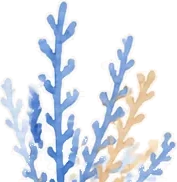
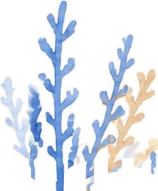
Re-extract every sea element whole and seat it on the waterline
The cutouts were segmented with a flat crop line, which sliced the
turtles' flippers, the starfish points and the coral fronds; the
elements were then placed below the surf line, so the waves covered
what remained. Every piece is now segmented with a per-column cut taken
at the actual waterline (detected by the periwinkle/foam hue), so each
shape ends where the artist drew it, keeping its white sticker outline.

Placement follows the source band as well: corals, turtles and starfish
rest on the sand line instead of sinking behind the surf, and corals and
turtles are scaled back to the proportions they have in the original
artwork.

Claude-Session: https://claude.ai/code/session_01FHjbgYbvwyauAhAEVwTY6z

diff --git a/docs/index.html b/docs/index.html
@@ -67,7 +67,7 @@
   </div>
 </section>
 
-<div class="franja franja--crema" aria-hidden="true"><div class="franja__escena"><img class="mar mar--coral" src="assets/img/mar/coral-a.webp" alt="" style="left:-1%;--w:150;--b:29%;--dur:7.6s;--del:-0s" loading="lazy"><img class="mar mar--tortuga" src="assets/img/mar/tortuga-der.webp" alt="" style="left:10%;--w:150;--b:35%;--dur:7.0s;--del:-1.4s" loading="lazy"><span class="mar mar--burbujas" style="left:19%;--w:0.55;--dur:10s;--del:-2s"><svg viewBox="0 0 40 90"><circle cx="14" cy="76" r="8"/><circle cx="27" cy="50" r="5.5"/><circle cx="16" cy="24" r="4"/><circle class="brillo" cx="11" cy="73" r="2.4"/></svg></span><img class="mar mar--pez mar--extra" src="assets/img/mar/pez-der.webp" alt="" style="left:24%;--w:74;--b:46%;--dur:15s;--del:-0s" loading="lazy"><img class="mar mar--coral" src="assets/img/mar/coral-b.webp" alt="" style="left:35%;--w:120;--b:29%;--dur:8.8s;--del:-2.2s" loading="lazy"><img class="mar mar--estrella" src="assets/img/mar/estrella-naranja.webp" alt="" style="left:45%;--w:104;--b:34%;--dur:9.4s;--del:-0.6s" loading="lazy"><img class="mar mar--estrella mar--extra" src="assets/img/mar/estrella-teal.webp" alt="" style="left:53%;--w:64;--b:33%;--dur:11.5s;--del:-2.8s" loading="lazy"><span class="mar mar--burbujas" style="left:60%;--w:0.45;--dur:13s;--del:-5s"><svg viewBox="0 0 40 90"><circle cx="14" cy="76" r="8"/><circle cx="27" cy="50" r="5.5"/><circle cx="16" cy="24" r="4"/><circle class="brillo" cx="11" cy="73" r="2.4"/></svg></span><img class="mar mar--coral mar--extra" src="assets/img/mar/coral-c.webp" alt="" style="left:61%;--w:150;--b:29%;--dur:6.8s;--del:-1.1s" loading="lazy"><img class="mar mar--ballena" src="assets/img/mar/ballena-der.webp" alt="" style="left:73%;--w:252;--b:35%;--dur:11s;--del:-0s" loading="lazy"><img class="mar mar--coral" src="assets/img/mar/coral-d.webp" alt="" style="left:92%;--w:120;--b:29%;--dur:9.6s;--del:-3.1s" loading="lazy"><span class="mar mar--burbujas" style="left:70%;--w:.5;--dur:12.5s;--del:-3.5s"><svg viewBox="0 0 40 90"><circle cx="14" cy="76" r="8"/><circle cx="27" cy="50" r="5.5"/><circle cx="16" cy="24" r="4"/><circle class="brillo" cx="11" cy="73" r="2.4"/></svg></span><svg class="franja__olas" viewBox="0 0 2160 200" preserveAspectRatio="none" aria-hidden="true"><path class="ola ola--1" d="M -160 43.0 Q -40 49.6 20.0 53.2 Q 80 56.8 140.0 59.8 Q 200 62.8 260.0 64.6 Q 320 66.4 380.0 66.6 Q 440 66.7 500.0 65.2 Q 560 63.6 620.0 60.7 Q 680 57.9 740.0 54.3 Q 800 50.8 860.0 47.4 Q 920 44.0 980.0 41.5 Q 1040 39.0 1100.0 38.0 Q 1160 37.0 1220.0 37.7 Q 1280 38.4 1340.0 40.7 Q 1400 43.0 1460.0 46.3 Q 1520 49.6 1580.0 53.2 Q 1640 56.8 1700.0 59.8 Q 1760 62.8 1820.0 64.6 Q 1880 66.4 1940.0 66.6 Q 2000 66.7 2060.0 65.2 Q 2120 63.6 2180.0 60.7 T 2240 57.9 L 2320 200 L -160 200 Z" fill="#F6FAFF"/><path class="ola ola--2" d="M -160 85.2 Q -40 90.2 20.0 91.7 Q 80 93.3 140.0 93.6 Q 200 93.9 260.0 93.0 Q 320 92.1 380.0 90.0 Q 440 87.9 500.0 85.1 Q 560 82.3 620.0 79.1 Q 680 75.9 740.0 72.9 Q 800 69.9 860.0 67.5 Q 920 65.1 980.0 63.8 Q 1040 62.4 1100.0 62.3 Q 1160 62.2 1220.0 63.4 Q 1280 64.5 1340.0 66.7 Q 1400 68.9 1460.0 71.8 Q 1520 74.8 1580.0 78.0 Q 1640 81.1 1700.0 84.1 Q 1760 87.0 1820.0 89.2 Q 1880 91.5 1940.0 92.6 Q 2000 93.8 2060.0 93.7 Q 2120 93.6 2180.0 92.2 T 2240 90.9 L 2320 200 L -160 200 Z" fill="#DDE6F8"/><path class="ola ola--3" d="M -160 120.8 Q -40 120.2 20.0 118.2 Q 80 116.3 140.0 113.1 Q 200 110.0 260.0 106.6 Q 320 103.2 380.0 100.5 Q 440 97.8 500.0 96.4 Q 560 95.1 620.0 95.6 Q 680 96.0 740.0 98.1 Q 800 100.2 860.0 103.4 Q 920 106.5 980.0 109.9 Q 1040 113.3 1100.0 115.9 Q 1160 118.6 1220.0 119.8 Q 1280 120.9 1340.0 120.4 Q 1400 119.8 1460.0 117.5 Q 1520 115.3 1580.0 112.1 Q 1640 108.9 1700.0 105.5 Q 1760 102.2 1820.0 99.7 Q 1880 97.1 1940.0 96.1 Q 2000 95.0 2060.0 95.8 Q 2120 96.5 2180.0 98.8 T 2240 101.2 L 2320 200 L -160 200 Z" fill="#C3CFEE"/><path class="ola ola--4" d="M -160 145.0 Q -40 149.8 20.0 151.8 Q 80 153.9 140.0 155.1 Q 200 156.4 260.0 156.7 Q 320 156.9 380.0 156.1 Q 440 155.3 500.0 153.6 Q 560 152.0 620.0 149.7 Q 680 147.4 740.0 145.0 Q 800 142.6 860.0 140.5 Q 920 138.4 980.0 137.1 Q 1040 135.7 1100.0 135.4 Q 1160 135.0 1220.0 135.7 Q 1280 136.4 1340.0 138.1 Q 1400 139.7 1460.0 141.9 Q 1520 144.2 1580.0 146.6 Q 1640 149.0 1700.0 151.1 Q 1760 153.3 1820.0 154.7 Q 1880 156.1 1940.0 156.5 Q 2000 157.0 2060.0 156.4 Q 2120 155.7 2180.0 154.2 T 2240 152.6 L 2320 200 L -160 200 Z" fill="#F7FAFF"/><path class="ola ola--5" d="M -160 182.5 Q -40 183.0 20.0 182.7 Q 80 182.4 140.0 181.6 Q 200 180.7 260.0 179.5 Q 320 178.2 380.0 176.7 Q 440 175.1 500.0 173.5 Q 560 171.9 620.0 170.4 Q 680 169.0 740.0 167.8 Q 800 166.7 860.0 166.0 Q 920 165.3 980.0 165.2 Q 1040 165.0 1100.0 165.5 Q 1160 165.9 1220.0 166.9 Q 1280 167.8 1340.0 169.2 Q 1400 170.5 1460.0 172.1 Q 1520 173.7 1580.0 175.3 Q 1640 176.9 1700.0 178.3 Q 1760 179.7 1820.0 180.7 Q 1880 181.8 1940.0 182.3 Q 2000 182.9 2060.0 182.9 Q 2120 182.8 2180.0 182.3 T 2240 181.7 L 2320 200 L -160 200 Z" fill="#EEF4FA"/></svg></div></div>
+<div class="franja franja--crema" aria-hidden="true"><div class="franja__escena"><img class="mar mar--coral" src="assets/img/mar/coral-a.webp" alt="" style="left:-1%;--w:93;--b:33%;--dur:7.6s;--del:-0s" loading="lazy"><img class="mar mar--tortuga" src="assets/img/mar/tortuga-der.webp" alt="" style="left:10%;--w:126;--b:34%;--dur:7.0s;--del:-1.4s" loading="lazy"><span class="mar mar--burbujas" style="left:19%;--w:0.55;--dur:10s;--del:-2s"><svg viewBox="0 0 40 90"><circle cx="14" cy="76" r="8"/><circle cx="27" cy="50" r="5.5"/><circle cx="16" cy="24" r="4"/><circle class="brillo" cx="11" cy="73" r="2.4"/></svg></span><img class="mar mar--pez mar--extra" src="assets/img/mar/pez-der.webp" alt="" style="left:24%;--w:74;--b:46%;--dur:15s;--del:-0s" loading="lazy"><img class="mar mar--coral" src="assets/img/mar/coral-b.webp" alt="" style="left:35%;--w:74;--b:33%;--dur:8.8s;--del:-2.2s" loading="lazy"><img class="mar mar--estrella" src="assets/img/mar/estrella-naranja.webp" alt="" style="left:45%;--w:104;--b:34%;--dur:9.4s;--del:-0.6s" loading="lazy"><img class="mar mar--estrella mar--extra" src="assets/img/mar/estrella-teal.webp" alt="" style="left:53%;--w:64;--b:34%;--dur:11.5s;--del:-2.8s" loading="lazy"><span class="mar mar--burbujas" style="left:60%;--w:0.45;--dur:13s;--del:-5s"><svg viewBox="0 0 40 90"><circle cx="14" cy="76" r="8"/><circle cx="27" cy="50" r="5.5"/><circle cx="16" cy="24" r="4"/><circle class="brillo" cx="11" cy="73" r="2.4"/></svg></span><img class="mar mar--coral mar--extra" src="assets/img/mar/coral-c.webp" alt="" style="left:61%;--w:93;--b:33%;--dur:6.8s;--del:-1.1s" loading="lazy"><img class="mar mar--ballena" src="assets/img/mar/ballena-der.webp" alt="" style="left:73%;--w:252;--b:36%;--dur:11s;--del:-0s" loading="lazy"><img class="mar mar--coral" src="assets/img/mar/coral-d.webp" alt="" style="left:92%;--w:74;--b:33%;--dur:9.6s;--del:-3.1s" loading="lazy"><span class="mar mar--burbujas" style="left:70%;--w:.5;--dur:12.5s;--del:-3.5s"><svg viewBox="0 0 40 90"><circle cx="14" cy="76" r="8"/><circle cx="27" cy="50" r="5.5"/><circle cx="16" cy="24" r="4"/><circle class="brillo" cx="11" cy="73" r="2.4"/></svg></span><svg class="franja__olas" viewBox="0 0 2160 200" preserveAspectRatio="none" aria-hidden="true"><path class="ola ola--1" d="M -160 43.0 Q -40 49.6 20.0 53.2 Q 80 56.8 140.0 59.8 Q 200 62.8 260.0 64.6 Q 320 66.4 380.0 66.6 Q 440 66.7 500.0 65.2 Q 560 63.6 620.0 60.7 Q 680 57.9 740.0 54.3 Q 800 50.8 860.0 47.4 Q 920 44.0 980.0 41.5 Q 1040 39.0 1100.0 38.0 Q 1160 37.0 1220.0 37.7 Q 1280 38.4 1340.0 40.7 Q 1400 43.0 1460.0 46.3 Q 1520 49.6 1580.0 53.2 Q 1640 56.8 1700.0 59.8 Q 1760 62.8 1820.0 64.6 Q 1880 66.4 1940.0 66.6 Q 2000 66.7 2060.0 65.2 Q 2120 63.6 2180.0 60.7 T 2240 57.9 L 2320 200 L -160 200 Z" fill="#F6FAFF"/><path class="ola ola--2" d="M -160 85.2 Q -40 90.2 20.0 91.7 Q 80 93.3 140.0 93.6 Q 200 93.9 260.0 93.0 Q 320 92.1 380.0 90.0 Q 440 87.9 500.0 85.1 Q 560 82.3 620.0 79.1 Q 680 75.9 740.0 72.9 Q 800 69.9 860.0 67.5 Q 920 65.1 980.0 63.8 Q 1040 62.4 1100.0 62.3 Q 1160 62.2 1220.0 63.4 Q 1280 64.5 1340.0 66.7 Q 1400 68.9 1460.0 71.8 Q 1520 74.8 1580.0 78.0 Q 1640 81.1 1700.0 84.1 Q 1760 87.0 1820.0 89.2 Q 1880 91.5 1940.0 92.6 Q 2000 93.8 2060.0 93.7 Q 2120 93.6 2180.0 92.2 T 2240 90.9 L 2320 200 L -160 200 Z" fill="#DDE6F8"/><path class="ola ola--3" d="M -160 120.8 Q -40 120.2 20.0 118.2 Q 80 116.3 140.0 113.1 Q 200 110.0 260.0 106.6 Q 320 103.2 380.0 100.5 Q 440 97.8 500.0 96.4 Q 560 95.1 620.0 95.6 Q 680 96.0 740.0 98.1 Q 800 100.2 860.0 103.4 Q 920 106.5 980.0 109.9 Q 1040 113.3 1100.0 115.9 Q 1160 118.6 1220.0 119.8 Q 1280 120.9 1340.0 120.4 Q 1400 119.8 1460.0 117.5 Q 1520 115.3 1580.0 112.1 Q 1640 108.9 1700.0 105.5 Q 1760 102.2 1820.0 99.7 Q 1880 97.1 1940.0 96.1 Q 2000 95.0 2060.0 95.8 Q 2120 96.5 2180.0 98.8 T 2240 101.2 L 2320 200 L -160 200 Z" fill="#C3CFEE"/><path class="ola ola--4" d="M -160 145.0 Q -40 149.8 20.0 151.8 Q 80 153.9 140.0 155.1 Q 200 156.4 260.0 156.7 Q 320 156.9 380.0 156.1 Q 440 155.3 500.0 153.6 Q 560 152.0 620.0 149.7 Q 680 147.4 740.0 145.0 Q 800 142.6 860.0 140.5 Q 920 138.4 980.0 137.1 Q 1040 135.7 1100.0 135.4 Q 1160 135.0 1220.0 135.7 Q 1280 136.4 1340.0 138.1 Q 1400 139.7 1460.0 141.9 Q 1520 144.2 1580.0 146.6 Q 1640 149.0 1700.0 151.1 Q 1760 153.3 1820.0 154.7 Q 1880 156.1 1940.0 156.5 Q 2000 157.0 2060.0 156.4 Q 2120 155.7 2180.0 154.2 T 2240 152.6 L 2320 200 L -160 200 Z" fill="#F7FAFF"/><path class="ola ola--5" d="M -160 182.5 Q -40 183.0 20.0 182.7 Q 80 182.4 140.0 181.6 Q 200 180.7 260.0 179.5 Q 320 178.2 380.0 176.7 Q 440 175.1 500.0 173.5 Q 560 171.9 620.0 170.4 Q 680 169.0 740.0 167.8 Q 800 166.7 860.0 166.0 Q 920 165.3 980.0 165.2 Q 1040 165.0 1100.0 165.5 Q 1160 165.9 1220.0 166.9 Q 1280 167.8 1340.0 169.2 Q 1400 170.5 1460.0 172.1 Q 1520 173.7 1580.0 175.3 Q 1640 176.9 1700.0 178.3 Q 1760 179.7 1820.0 180.7 Q 1880 181.8 1940.0 182.3 Q 2000 182.9 2060.0 182.9 Q 2120 182.8 2180.0 182.3 T 2240 181.7 L 2320 200 L -160 200 Z" fill="#EEF4FA"/></svg></div></div>
 
 <!-- ===== Servicios ===== -->
 <section id="servicios" class="seccion seccion--agua" style="padding-top:20px">
@@ -136,7 +136,7 @@
   </div>
 </section>
 
-<div class="franja franja--agua" aria-hidden="true"><div class="franja__escena"><img class="mar mar--coral" src="assets/img/mar/coral-c.webp" alt="" style="left:-1%;--w:140;--b:29%;--dur:8.2s;--del:-1.8s" loading="lazy"><img class="mar mar--ballena" src="assets/img/mar/ballena-izq.webp" alt="" style="left:6%;--w:252;--b:35%;--dur:12s;--del:-1.5s" loading="lazy"><span class="mar mar--burbujas" style="left:23%;--w:0.5;--dur:11s;--del:-1s"><svg viewBox="0 0 40 90"><circle cx="14" cy="76" r="8"/><circle cx="27" cy="50" r="5.5"/><circle cx="16" cy="24" r="4"/><circle class="brillo" cx="11" cy="73" r="2.4"/></svg></span><img class="mar mar--coral mar--extra" src="assets/img/mar/coral-a.webp" alt="" style="left:26%;--w:130;--b:29%;--dur:7.2s;--del:-0s" loading="lazy"><img class="mar mar--estrella" src="assets/img/mar/estrella-teal.webp" alt="" style="left:36%;--w:60;--b:33%;--dur:10.6s;--del:-1.9s" loading="lazy"><img class="mar mar--estrella" src="assets/img/mar/estrella-naranja.webp" alt="" style="left:42%;--w:100;--b:34%;--dur:8.8s;--del:-3.2s" loading="lazy"><img class="mar mar--coral" src="assets/img/mar/coral-b.webp" alt="" style="left:53%;--w:140;--b:29%;--dur:9.1s;--del:-0.7s" loading="lazy"><img class="mar mar--pez mar--extra" src="assets/img/mar/pez-izq.webp" alt="" style="left:64%;--w:70;--b:46%;--dur:16s;--del:-2s" loading="lazy"><span class="mar mar--burbujas" style="left:70%;--w:0.5;--dur:12s;--del:-4s"><svg viewBox="0 0 40 90"><circle cx="14" cy="76" r="8"/><circle cx="27" cy="50" r="5.5"/><circle cx="16" cy="24" r="4"/><circle class="brillo" cx="11" cy="73" r="2.4"/></svg></span><img class="mar mar--tortuga" src="assets/img/mar/tortuga-izq.webp" alt="" style="left:74%;--w:150;--b:35%;--dur:7.4s;--del:-2.6s" loading="lazy"><img class="mar mar--coral" src="assets/img/mar/coral-d.webp" alt="" style="left:90%;--w:130;--b:29%;--dur:8.4s;--del:-1.2s" loading="lazy"><span class="mar mar--burbujas" style="left:19%;--w:.5;--dur:11s;--del:-2s"><svg viewBox="0 0 40 90"><circle cx="14" cy="76" r="8"/><circle cx="27" cy="50" r="5.5"/><circle cx="16" cy="24" r="4"/><circle class="brillo" cx="11" cy="73" r="2.4"/></svg></span><svg class="franja__olas" viewBox="0 0 2160 200" preserveAspectRatio="none" aria-hidden="true"><path class="ola ola--1" d="M -160 61.1 Q -40 65.6 20.0 66.3 Q 80 67.0 140.0 65.9 Q 200 64.9 260.0 62.4 Q 320 59.9 380.0 56.5 Q 440 53.0 500.0 49.5 Q 560 46.0 620.0 43.1 Q 680 40.3 740.0 38.8 Q 800 37.3 860.0 37.5 Q 920 37.6 980.0 39.5 Q 1040 41.3 1100.0 44.4 Q 1160 47.4 1220.0 51.0 Q 1280 54.6 1340.0 57.9 Q 1400 61.1 1460.0 63.4 Q 1520 65.6 1580.0 66.3 Q 1640 67.0 1700.0 65.9 Q 1760 64.9 1820.0 62.4 Q 1880 59.9 1940.0 56.5 Q 2000 53.0 2060.0 49.5 Q 2120 46.0 2180.0 43.1 T 2240 40.3 L 2320 200 L -160 200 Z" fill="#F6FAFF"/><path class="ola ola--2" d="M -160 93.7 Q -40 91.2 20.0 89.0 Q 80 86.7 140.0 83.7 Q 200 80.8 260.0 77.6 Q 320 74.4 380.0 71.5 Q 440 68.6 500.0 66.4 Q 560 64.3 620.0 63.2 Q 680 62.2 740.0 62.3 Q 800 62.5 860.0 64.0 Q 920 65.4 980.0 67.8 Q 1040 70.2 1100.0 73.3 Q 1160 76.3 1220.0 79.5 Q 1280 82.6 1340.0 85.5 Q 1400 88.3 1460.0 90.2 Q 1520 92.2 1580.0 93.1 Q 1640 94.0 1700.0 93.6 Q 1760 93.1 1820.0 91.5 Q 1880 89.9 1940.0 87.4 Q 2000 84.8 2060.0 81.7 Q 2120 78.6 2180.0 75.5 T 2240 72.3 L 2320 200 L -160 200 Z" fill="#DDE6F8"/><path class="ola ola--3" d="M -160 113.6 Q -40 106.9 20.0 103.7 Q 80 100.5 140.0 98.3 Q 200 96.2 260.0 95.6 Q 320 95.1 380.0 96.3 Q 440 97.5 500.0 100.2 Q 560 102.9 620.0 106.3 Q 680 109.6 740.0 112.8 Q 800 115.9 860.0 118.0 Q 920 120.1 980.0 120.5 Q 1040 120.9 1100.0 119.5 Q 1160 118.1 1220.0 115.4 Q 1280 112.6 1340.0 109.2 Q 1400 105.8 1460.0 102.7 Q 1520 99.6 1580.0 97.7 Q 1640 95.7 1700.0 95.5 Q 1760 95.2 1820.0 96.7 Q 1880 98.3 1940.0 101.1 Q 2000 103.9 2060.0 107.4 Q 2120 110.8 2180.0 113.8 T 2240 116.8 L 2320 200 L -160 200 Z" fill="#C3CFEE"/><path class="ola ola--4" d="M -160 156.3 Q -40 157.0 20.0 156.2 Q 80 155.5 140.0 153.9 Q 200 152.2 260.0 150.0 Q 320 147.7 380.0 145.3 Q 440 142.9 500.0 140.8 Q 560 138.7 620.0 137.3 Q 680 135.9 740.0 135.4 Q 800 135.0 860.0 135.6 Q 920 136.3 980.0 137.9 Q 1040 139.4 1100.0 141.6 Q 1160 143.9 1220.0 146.3 Q 1280 148.7 1340.0 150.9 Q 1400 153.0 1460.0 154.5 Q 1520 156.0 1580.0 156.5 Q 1640 157.0 1700.0 156.5 Q 1760 155.9 1820.0 154.4 Q 1880 152.9 1940.0 150.7 Q 2000 148.5 2060.0 146.1 Q 2120 143.7 2180.0 141.5 T 2240 139.3 L 2320 200 L -160 200 Z" fill="#F7FAFF"/><path class="ola ola--5" d="M -160 179.2 Q -40 176.3 20.0 174.7 Q 80 173.1 140.0 171.6 Q 200 170.0 260.0 168.7 Q 320 167.4 380.0 166.6 Q 440 165.7 500.0 165.4 Q 560 165.0 620.0 165.2 Q 680 165.5 740.0 166.2 Q 800 167.0 860.0 168.2 Q 920 169.4 980.0 171.0 Q 1040 172.5 1100.0 174.1 Q 1160 175.7 1220.0 177.2 Q 1280 178.7 1340.0 179.9 Q 1400 181.1 1460.0 181.8 Q 1520 182.6 1580.0 182.8 Q 1640 183.0 1700.0 182.6 Q 1760 182.2 1820.0 181.4 Q 1880 180.5 1940.0 179.1 Q 2000 177.8 2060.0 176.3 Q 2120 174.7 2180.0 173.1 T 2240 171.5 L 2320 200 L -160 200 Z" fill="#FBF5EF"/></svg></div></div>
+<div class="franja franja--agua" aria-hidden="true"><div class="franja__escena"><img class="mar mar--coral" src="assets/img/mar/coral-c.webp" alt="" style="left:-1%;--w:87;--b:33%;--dur:8.2s;--del:-1.8s" loading="lazy"><img class="mar mar--ballena" src="assets/img/mar/ballena-izq.webp" alt="" style="left:6%;--w:252;--b:36%;--dur:12s;--del:-1.5s" loading="lazy"><span class="mar mar--burbujas" style="left:23%;--w:0.5;--dur:11s;--del:-1s"><svg viewBox="0 0 40 90"><circle cx="14" cy="76" r="8"/><circle cx="27" cy="50" r="5.5"/><circle cx="16" cy="24" r="4"/><circle class="brillo" cx="11" cy="73" r="2.4"/></svg></span><img class="mar mar--coral mar--extra" src="assets/img/mar/coral-a.webp" alt="" style="left:26%;--w:81;--b:33%;--dur:7.2s;--del:-0s" loading="lazy"><img class="mar mar--estrella" src="assets/img/mar/estrella-teal.webp" alt="" style="left:36%;--w:60;--b:34%;--dur:10.6s;--del:-1.9s" loading="lazy"><img class="mar mar--estrella" src="assets/img/mar/estrella-naranja.webp" alt="" style="left:42%;--w:100;--b:34%;--dur:8.8s;--del:-3.2s" loading="lazy"><img class="mar mar--coral" src="assets/img/mar/coral-b.webp" alt="" style="left:53%;--w:87;--b:33%;--dur:9.1s;--del:-0.7s" loading="lazy"><img class="mar mar--pez mar--extra" src="assets/img/mar/pez-izq.webp" alt="" style="left:64%;--w:70;--b:46%;--dur:16s;--del:-2s" loading="lazy"><span class="mar mar--burbujas" style="left:70%;--w:0.5;--dur:12s;--del:-4s"><svg viewBox="0 0 40 90"><circle cx="14" cy="76" r="8"/><circle cx="27" cy="50" r="5.5"/><circle cx="16" cy="24" r="4"/><circle class="brillo" cx="11" cy="73" r="2.4"/></svg></span><img class="mar mar--tortuga" src="assets/img/mar/tortuga-izq.webp" alt="" style="left:74%;--w:126;--b:34%;--dur:7.4s;--del:-2.6s" loading="lazy"><img class="mar mar--coral" src="assets/img/mar/coral-d.webp" alt="" style="left:90%;--w:81;--b:33%;--dur:8.4s;--del:-1.2s" loading="lazy"><span class="mar mar--burbujas" style="left:19%;--w:.5;--dur:11s;--del:-2s"><svg viewBox="0 0 40 90"><circle cx="14" cy="76" r="8"/><circle cx="27" cy="50" r="5.5"/><circle cx="16" cy="24" r="4"/><circle class="brillo" cx="11" cy="73" r="2.4"/></svg></span><svg class="franja__olas" viewBox="0 0 2160 200" preserveAspectRatio="none" aria-hidden="true"><path class="ola ola--1" d="M -160 61.1 Q -40 65.6 20.0 66.3 Q 80 67.0 140.0 65.9 Q 200 64.9 260.0 62.4 Q 320 59.9 380.0 56.5 Q 440 53.0 500.0 49.5 Q 560 46.0 620.0 43.1 Q 680 40.3 740.0 38.8 Q 800 37.3 860.0 37.5 Q 920 37.6 980.0 39.5 Q 1040 41.3 1100.0 44.4 Q 1160 47.4 1220.0 51.0 Q 1280 54.6 1340.0 57.9 Q 1400 61.1 1460.0 63.4 Q 1520 65.6 1580.0 66.3 Q 1640 67.0 1700.0 65.9 Q 1760 64.9 1820.0 62.4 Q 1880 59.9 1940.0 56.5 Q 2000 53.0 2060.0 49.5 Q 2120 46.0 2180.0 43.1 T 2240 40.3 L 2320 200 L -160 200 Z" fill="#F6FAFF"/><path class="ola ola--2" d="M -160 93.7 Q -40 91.2 20.0 89.0 Q 80 86.7 140.0 83.7 Q 200 80.8 260.0 77.6 Q 320 74.4 380.0 71.5 Q 440 68.6 500.0 66.4 Q 560 64.3 620.0 63.2 Q 680 62.2 740.0 62.3 Q 800 62.5 860.0 64.0 Q 920 65.4 980.0 67.8 Q 1040 70.2 1100.0 73.3 Q 1160 76.3 1220.0 79.5 Q 1280 82.6 1340.0 85.5 Q 1400 88.3 1460.0 90.2 Q 1520 92.2 1580.0 93.1 Q 1640 94.0 1700.0 93.6 Q 1760 93.1 1820.0 91.5 Q 1880 89.9 1940.0 87.4 Q 2000 84.8 2060.0 81.7 Q 2120 78.6 2180.0 75.5 T 2240 72.3 L 2320 200 L -160 200 Z" fill="#DDE6F8"/><path class="ola ola--3" d="M -160 113.6 Q -40 106.9 20.0 103.7 Q 80 100.5 140.0 98.3 Q 200 96.2 260.0 95.6 Q 320 95.1 380.0 96.3 Q 440 97.5 500.0 100.2 Q 560 102.9 620.0 106.3 Q 680 109.6 740.0 112.8 Q 800 115.9 860.0 118.0 Q 920 120.1 980.0 120.5 Q 1040 120.9 1100.0 119.5 Q 1160 118.1 1220.0 115.4 Q 1280 112.6 1340.0 109.2 Q 1400 105.8 1460.0 102.7 Q 1520 99.6 1580.0 97.7 Q 1640 95.7 1700.0 95.5 Q 1760 95.2 1820.0 96.7 Q 1880 98.3 1940.0 101.1 Q 2000 103.9 2060.0 107.4 Q 2120 110.8 2180.0 113.8 T 2240 116.8 L 2320 200 L -160 200 Z" fill="#C3CFEE"/><path class="ola ola--4" d="M -160 156.3 Q -40 157.0 20.0 156.2 Q 80 155.5 140.0 153.9 Q 200 152.2 260.0 150.0 Q 320 147.7 380.0 145.3 Q 440 142.9 500.0 140.8 Q 560 138.7 620.0 137.3 Q 680 135.9 740.0 135.4 Q 800 135.0 860.0 135.6 Q 920 136.3 980.0 137.9 Q 1040 139.4 1100.0 141.6 Q 1160 143.9 1220.0 146.3 Q 1280 148.7 1340.0 150.9 Q 1400 153.0 1460.0 154.5 Q 1520 156.0 1580.0 156.5 Q 1640 157.0 1700.0 156.5 Q 1760 155.9 1820.0 154.4 Q 1880 152.9 1940.0 150.7 Q 2000 148.5 2060.0 146.1 Q 2120 143.7 2180.0 141.5 T 2240 139.3 L 2320 200 L -160 200 Z" fill="#F7FAFF"/><path class="ola ola--5" d="M -160 179.2 Q -40 176.3 20.0 174.7 Q 80 173.1 140.0 171.6 Q 200 170.0 260.0 168.7 Q 320 167.4 380.0 166.6 Q 440 165.7 500.0 165.4 Q 560 165.0 620.0 165.2 Q 680 165.5 740.0 166.2 Q 800 167.0 860.0 168.2 Q 920 169.4 980.0 171.0 Q 1040 172.5 1100.0 174.1 Q 1160 175.7 1220.0 177.2 Q 1280 178.7 1340.0 179.9 Q 1400 181.1 1460.0 181.8 Q 1520 182.6 1580.0 182.8 Q 1640 183.0 1700.0 182.6 Q 1760 182.2 1820.0 181.4 Q 1880 180.5 1940.0 179.1 Q 2000 177.8 2060.0 176.3 Q 2120 174.7 2180.0 173.1 T 2240 171.5 L 2320 200 L -160 200 Z" fill="#FBF5EF"/></svg></div></div>
 
 <!-- ===== Consultorio ===== -->
 <section id="consultorio" class="seccion seccion--crema">
@@ -193,7 +193,7 @@
   </div>
 </section>
 
-<div class="franja franja--crema" aria-hidden="true"><div class="franja__escena"><img class="mar mar--coral" src="assets/img/mar/coral-b.webp" alt="" style="left:-1%;--w:130;--b:29%;--dur:7.9s;--del:-0.9s" loading="lazy"><img class="mar mar--ballena" src="assets/img/mar/ballena-izq.webp" alt="" style="left:7%;--w:244;--b:35%;--dur:11.6s;--del:-0s" loading="lazy"><img class="mar mar--coral" src="assets/img/mar/coral-a.webp" alt="" style="left:25%;--w:140;--b:29%;--dur:8.6s;--del:-2.4s" loading="lazy"><span class="mar mar--burbujas" style="left:33%;--w:0.45;--dur:12s;--del:-3s"><svg viewBox="0 0 40 90"><circle cx="14" cy="76" r="8"/><circle cx="27" cy="50" r="5.5"/><circle cx="16" cy="24" r="4"/><circle class="brillo" cx="11" cy="73" r="2.4"/></svg></span><img class="mar mar--estrella mar--extra" src="assets/img/mar/estrella-teal.webp" alt="" style="left:37%;--w:62;--b:33%;--dur:10.2s;--del:-1.2s" loading="lazy"><img class="mar mar--estrella" src="assets/img/mar/estrella-naranja.webp" alt="" style="left:43%;--w:100;--b:34%;--dur:9s;--del:-2.7s" loading="lazy"><img class="mar mar--coral" src="assets/img/mar/coral-c.webp" alt="" style="left:54%;--w:140;--b:29%;--dur:7.4s;--del:-1.6s" loading="lazy"><img class="mar mar--pez" src="assets/img/mar/pez-der.webp" alt="" style="left:65%;--w:72;--b:46%;--dur:14.5s;--del:-1s" loading="lazy"><img class="mar mar--tortuga" src="assets/img/mar/tortuga-der.webp" alt="" style="left:75%;--w:152;--b:35%;--dur:7.2s;--del:-3s" loading="lazy"><span class="mar mar--burbujas" style="left:85%;--w:0.55;--dur:10.5s;--del:-1.5s"><svg viewBox="0 0 40 90"><circle cx="14" cy="76" r="8"/><circle cx="27" cy="50" r="5.5"/><circle cx="16" cy="24" r="4"/><circle class="brillo" cx="11" cy="73" r="2.4"/></svg></span><img class="mar mar--coral" src="assets/img/mar/coral-d.webp" alt="" style="left:91%;--w:125;--b:29%;--dur:9.2s;--del:-2s" loading="lazy"><span class="mar mar--burbujas" style="left:88%;--w:.5;--dur:13s;--del:-5.5s"><svg viewBox="0 0 40 90"><circle cx="14" cy="76" r="8"/><circle cx="27" cy="50" r="5.5"/><circle cx="16" cy="24" r="4"/><circle class="brillo" cx="11" cy="73" r="2.4"/></svg></span><svg class="franja__olas" viewBox="0 0 2160 200" preserveAspectRatio="none" aria-hidden="true"><path class="ola ola--1" d="M -160 66.7 Q -40 63.8 20.0 60.9 Q 80 58.1 140.0 54.6 Q 200 51.0 260.0 47.6 Q 320 44.2 380.0 41.7 Q 440 39.1 500.0 38.1 Q 560 37.0 620.0 37.7 Q 680 38.3 740.0 40.6 Q 800 42.8 860.0 46.1 Q 920 49.3 980.0 52.9 Q 1040 56.5 1100.0 59.6 Q 1160 62.6 1220.0 64.5 Q 1280 66.3 1340.0 66.5 Q 1400 66.7 1460.0 65.3 Q 1520 63.8 1580.0 60.9 Q 1640 58.1 1700.0 54.6 Q 1760 51.0 1820.0 47.6 Q 1880 44.2 1940.0 41.7 Q 2000 39.1 2060.0 38.1 Q 2120 37.0 2180.0 37.7 T 2240 38.3 L 2320 200 L -160 200 Z" fill="#F6FAFF"/><path class="ola ola--2" d="M -160 82.4 Q -40 76.0 20.0 73.0 Q 80 70.0 140.0 67.6 Q 200 65.2 260.0 63.8 Q 320 62.5 380.0 62.3 Q 440 62.2 500.0 63.3 Q 560 64.4 620.0 66.6 Q 680 68.8 740.0 71.7 Q 800 74.7 860.0 77.9 Q 920 81.0 980.0 84.0 Q 1040 86.9 1100.0 89.2 Q 1160 91.4 1220.0 92.6 Q 1280 93.8 1340.0 93.7 Q 1400 93.6 1460.0 92.3 Q 1520 91.0 1580.0 88.6 Q 1640 86.3 1700.0 83.3 Q 1760 80.3 1820.0 77.1 Q 1880 73.9 1940.0 71.1 Q 2000 68.2 2060.0 66.1 Q 2120 64.0 2180.0 63.1 T 2240 62.1 L 2320 200 L -160 200 Z" fill="#DDE6F8"/><path class="ola ola--3" d="M -160 100.1 Q -40 96.0 20.0 95.6 Q 80 95.1 140.0 96.5 Q 200 97.8 260.0 100.6 Q 320 103.3 380.0 106.7 Q 440 110.1 500.0 113.2 Q 560 116.3 620.0 118.3 Q 680 120.2 740.0 120.5 Q 800 120.8 860.0 119.3 Q 920 117.8 980.0 115.0 Q 1040 112.1 1100.0 108.7 Q 1160 105.3 1220.0 102.3 Q 1280 99.2 1340.0 97.4 Q 1400 95.6 1460.0 95.5 Q 1520 95.3 1580.0 97.0 Q 1640 98.6 1700.0 101.5 Q 1760 104.4 1820.0 107.8 Q 1880 111.2 1940.0 114.2 Q 2000 117.2 2060.0 118.9 Q 2120 120.6 2180.0 120.5 T 2240 120.5 L 2320 200 L -160 200 Z" fill="#C3CFEE"/><path class="ola ola--4" d="M -160 154.1 Q -40 150.2 20.0 147.8 Q 80 145.4 140.0 143.1 Q 200 140.7 260.0 138.9 Q 320 137.1 380.0 136.1 Q 440 135.2 500.0 135.3 Q 560 135.4 620.0 136.5 Q 680 137.6 740.0 139.5 Q 800 141.5 860.0 143.8 Q 920 146.2 980.0 148.5 Q 1040 150.9 1100.0 152.8 Q 1160 154.6 1220.0 155.7 Q 1280 156.7 1340.0 156.7 Q 1400 156.7 1460.0 155.7 Q 1520 154.7 1580.0 152.8 Q 1640 150.9 1700.0 148.6 Q 1760 146.2 1820.0 143.8 Q 1880 141.5 1940.0 139.5 Q 2000 137.6 2060.0 136.5 Q 2120 135.4 2180.0 135.3 T 2240 135.2 L 2320 200 L -160 200 Z" fill="#F7FAFF"/><path class="ola ola--5" d="M -160 169.8 Q -40 167.3 20.0 166.5 Q 80 165.6 140.0 165.3 Q 200 165.0 260.0 165.3 Q 320 165.5 380.0 166.3 Q 440 167.1 500.0 168.4 Q 560 169.6 620.0 171.1 Q 680 172.7 740.0 174.3 Q 800 175.9 860.0 177.4 Q 920 178.9 980.0 180.0 Q 1040 181.2 1100.0 181.9 Q 1160 182.6 1220.0 182.8 Q 1280 183.0 1340.0 182.6 Q 1400 182.2 1460.0 181.2 Q 1520 180.3 1580.0 179.0 Q 1640 177.7 1700.0 176.1 Q 1760 174.5 1820.0 172.9 Q 1880 171.3 1940.0 169.9 Q 2000 168.5 2060.0 167.4 Q 2120 166.3 2180.0 165.8 T 2240 165.2 L 2320 200 L -160 200 Z" fill="#EEF4FA"/></svg></div></div>
+<div class="franja franja--crema" aria-hidden="true"><div class="franja__escena"><img class="mar mar--coral" src="assets/img/mar/coral-b.webp" alt="" style="left:-1%;--w:81;--b:33%;--dur:7.9s;--del:-0.9s" loading="lazy"><img class="mar mar--ballena" src="assets/img/mar/ballena-izq.webp" alt="" style="left:7%;--w:244;--b:36%;--dur:11.6s;--del:-0s" loading="lazy"><img class="mar mar--coral" src="assets/img/mar/coral-a.webp" alt="" style="left:25%;--w:87;--b:33%;--dur:8.6s;--del:-2.4s" loading="lazy"><span class="mar mar--burbujas" style="left:33%;--w:0.45;--dur:12s;--del:-3s"><svg viewBox="0 0 40 90"><circle cx="14" cy="76" r="8"/><circle cx="27" cy="50" r="5.5"/><circle cx="16" cy="24" r="4"/><circle class="brillo" cx="11" cy="73" r="2.4"/></svg></span><img class="mar mar--estrella mar--extra" src="assets/img/mar/estrella-teal.webp" alt="" style="left:37%;--w:62;--b:34%;--dur:10.2s;--del:-1.2s" loading="lazy"><img class="mar mar--estrella" src="assets/img/mar/estrella-naranja.webp" alt="" style="left:43%;--w:100;--b:34%;--dur:9s;--del:-2.7s" loading="lazy"><img class="mar mar--coral" src="assets/img/mar/coral-c.webp" alt="" style="left:54%;--w:87;--b:33%;--dur:7.4s;--del:-1.6s" loading="lazy"><img class="mar mar--pez" src="assets/img/mar/pez-der.webp" alt="" style="left:65%;--w:72;--b:46%;--dur:14.5s;--del:-1s" loading="lazy"><img class="mar mar--tortuga" src="assets/img/mar/tortuga-der.webp" alt="" style="left:75%;--w:128;--b:34%;--dur:7.2s;--del:-3s" loading="lazy"><span class="mar mar--burbujas" style="left:85%;--w:0.55;--dur:10.5s;--del:-1.5s"><svg viewBox="0 0 40 90"><circle cx="14" cy="76" r="8"/><circle cx="27" cy="50" r="5.5"/><circle cx="16" cy="24" r="4"/><circle class="brillo" cx="11" cy="73" r="2.4"/></svg></span><img class="mar mar--coral" src="assets/img/mar/coral-d.webp" alt="" style="left:91%;--w:78;--b:33%;--dur:9.2s;--del:-2s" loading="lazy"><span class="mar mar--burbujas" style="left:88%;--w:.5;--dur:13s;--del:-5.5s"><svg viewBox="0 0 40 90"><circle cx="14" cy="76" r="8"/><circle cx="27" cy="50" r="5.5"/><circle cx="16" cy="24" r="4"/><circle class="brillo" cx="11" cy="73" r="2.4"/></svg></span><svg class="franja__olas" viewBox="0 0 2160 200" preserveAspectRatio="none" aria-hidden="true"><path class="ola ola--1" d="M -160 66.7 Q -40 63.8 20.0 60.9 Q 80 58.1 140.0 54.6 Q 200 51.0 260.0 47.6 Q 320 44.2 380.0 41.7 Q 440 39.1 500.0 38.1 Q 560 37.0 620.0 37.7 Q 680 38.3 740.0 40.6 Q 800 42.8 860.0 46.1 Q 920 49.3 980.0 52.9 Q 1040 56.5 1100.0 59.6 Q 1160 62.6 1220.0 64.5 Q 1280 66.3 1340.0 66.5 Q 1400 66.7 1460.0 65.3 Q 1520 63.8 1580.0 60.9 Q 1640 58.1 1700.0 54.6 Q 1760 51.0 1820.0 47.6 Q 1880 44.2 1940.0 41.7 Q 2000 39.1 2060.0 38.1 Q 2120 37.0 2180.0 37.7 T 2240 38.3 L 2320 200 L -160 200 Z" fill="#F6FAFF"/><path class="ola ola--2" d="M -160 82.4 Q -40 76.0 20.0 73.0 Q 80 70.0 140.0 67.6 Q 200 65.2 260.0 63.8 Q 320 62.5 380.0 62.3 Q 440 62.2 500.0 63.3 Q 560 64.4 620.0 66.6 Q 680 68.8 740.0 71.7 Q 800 74.7 860.0 77.9 Q 920 81.0 980.0 84.0 Q 1040 86.9 1100.0 89.2 Q 1160 91.4 1220.0 92.6 Q 1280 93.8 1340.0 93.7 Q 1400 93.6 1460.0 92.3 Q 1520 91.0 1580.0 88.6 Q 1640 86.3 1700.0 83.3 Q 1760 80.3 1820.0 77.1 Q 1880 73.9 1940.0 71.1 Q 2000 68.2 2060.0 66.1 Q 2120 64.0 2180.0 63.1 T 2240 62.1 L 2320 200 L -160 200 Z" fill="#DDE6F8"/><path class="ola ola--3" d="M -160 100.1 Q -40 96.0 20.0 95.6 Q 80 95.1 140.0 96.5 Q 200 97.8 260.0 100.6 Q 320 103.3 380.0 106.7 Q 440 110.1 500.0 113.2 Q 560 116.3 620.0 118.3 Q 680 120.2 740.0 120.5 Q 800 120.8 860.0 119.3 Q 920 117.8 980.0 115.0 Q 1040 112.1 1100.0 108.7 Q 1160 105.3 1220.0 102.3 Q 1280 99.2 1340.0 97.4 Q 1400 95.6 1460.0 95.5 Q 1520 95.3 1580.0 97.0 Q 1640 98.6 1700.0 101.5 Q 1760 104.4 1820.0 107.8 Q 1880 111.2 1940.0 114.2 Q 2000 117.2 2060.0 118.9 Q 2120 120.6 2180.0 120.5 T 2240 120.5 L 2320 200 L -160 200 Z" fill="#C3CFEE"/><path class="ola ola--4" d="M -160 154.1 Q -40 150.2 20.0 147.8 Q 80 145.4 140.0 143.1 Q 200 140.7 260.0 138.9 Q 320 137.1 380.0 136.1 Q 440 135.2 500.0 135.3 Q 560 135.4 620.0 136.5 Q 680 137.6 740.0 139.5 Q 800 141.5 860.0 143.8 Q 920 146.2 980.0 148.5 Q 1040 150.9 1100.0 152.8 Q 1160 154.6 1220.0 155.7 Q 1280 156.7 1340.0 156.7 Q 1400 156.7 1460.0 155.7 Q 1520 154.7 1580.0 152.8 Q 1640 150.9 1700.0 148.6 Q 1760 146.2 1820.0 143.8 Q 1880 141.5 1940.0 139.5 Q 2000 137.6 2060.0 136.5 Q 2120 135.4 2180.0 135.3 T 2240 135.2 L 2320 200 L -160 200 Z" fill="#F7FAFF"/><path class="ola ola--5" d="M -160 169.8 Q -40 167.3 20.0 166.5 Q 80 165.6 140.0 165.3 Q 200 165.0 260.0 165.3 Q 320 165.5 380.0 166.3 Q 440 167.1 500.0 168.4 Q 560 169.6 620.0 171.1 Q 680 172.7 740.0 174.3 Q 800 175.9 860.0 177.4 Q 920 178.9 980.0 180.0 Q 1040 181.2 1100.0 181.9 Q 1160 182.6 1220.0 182.8 Q 1280 183.0 1340.0 182.6 Q 1400 182.2 1460.0 181.2 Q 1520 180.3 1580.0 179.0 Q 1640 177.7 1700.0 176.1 Q 1760 174.5 1820.0 172.9 Q 1880 171.3 1940.0 169.9 Q 2000 168.5 2060.0 167.4 Q 2120 166.3 2180.0 165.8 T 2240 165.2 L 2320 200 L -160 200 Z" fill="#EEF4FA"/></svg></div></div>
 
 <!-- ===== Blog ===== -->
 <section id="blog" class="seccion seccion--agua" style="padding-bottom:52px">
@@ -221,7 +221,7 @@
   </div>
 </section>
 
-<div class="franja franja--agua" aria-hidden="true"><div class="franja__escena"><img class="mar mar--coral" src="assets/img/mar/coral-d.webp" alt="" style="left:-1%;--w:140;--b:29%;--dur:8.1s;--del:-2.1s" loading="lazy"><img class="mar mar--tortuga" src="assets/img/mar/tortuga-der.webp" alt="" style="left:9%;--w:148;--b:35%;--dur:6.9s;--del:-0.5s" loading="lazy"><span class="mar mar--burbujas" style="left:17%;--w:0.5;--dur:11.5s;--del:-0s"><svg viewBox="0 0 40 90"><circle cx="14" cy="76" r="8"/><circle cx="27" cy="50" r="5.5"/><circle cx="16" cy="24" r="4"/><circle class="brillo" cx="11" cy="73" r="2.4"/></svg></span><img class="mar mar--pez mar--extra" src="assets/img/mar/pez-der.webp" alt="" style="left:23%;--w:72;--b:46%;--dur:15.5s;--del:-2.5s" loading="lazy"><img class="mar mar--coral" src="assets/img/mar/coral-b.webp" alt="" style="left:34%;--w:125;--b:29%;--dur:9.3s;--del:-1.3s" loading="lazy"><img class="mar mar--estrella" src="assets/img/mar/estrella-naranja.webp" alt="" style="left:46%;--w:102;--b:34%;--dur:8.6s;--del:-3.4s" loading="lazy"><img class="mar mar--estrella mar--extra" src="assets/img/mar/estrella-teal.webp" alt="" style="left:54%;--w:62;--b:33%;--dur:11s;--del:-1.7s" loading="lazy"><img class="mar mar--coral" src="assets/img/mar/coral-a.webp" alt="" style="left:62%;--w:145;--b:29%;--dur:7.1s;--del:-2.9s" loading="lazy"><span class="mar mar--burbujas" style="left:70%;--w:0.45;--dur:13.5s;--del:-6s"><svg viewBox="0 0 40 90"><circle cx="14" cy="76" r="8"/><circle cx="27" cy="50" r="5.5"/><circle cx="16" cy="24" r="4"/><circle class="brillo" cx="11" cy="73" r="2.4"/></svg></span><img class="mar mar--ballena" src="assets/img/mar/ballena-der.webp" alt="" style="left:74%;--w:248;--b:35%;--dur:11.4s;--del:-2s" loading="lazy"><img class="mar mar--coral" src="assets/img/mar/coral-c.webp" alt="" style="left:92%;--w:130;--b:29%;--dur:8.8s;--del:-0.4s" loading="lazy"><span class="mar mar--burbujas" style="left:66%;--w:.5;--dur:10.8s;--del:-1s"><svg viewBox="0 0 40 90"><circle cx="14" cy="76" r="8"/><circle cx="27" cy="50" r="5.5"/><circle cx="16" cy="24" r="4"/><circle class="brillo" cx="11" cy="73" r="2.4"/></svg></span><svg class="franja__olas" viewBox="0 0 2160 200" preserveAspectRatio="none" aria-hidden="true"><path class="ola ola--1" d="M -160 56.2 Q -40 49.1 20.0 45.8 Q 80 42.6 140.0 40.4 Q 200 38.2 260.0 37.6 Q 320 37.0 380.0 38.2 Q 440 39.3 500.0 41.9 Q 560 44.4 620.0 47.9 Q 680 51.3 740.0 54.9 Q 800 58.4 860.0 61.2 Q 920 64.0 980.0 65.4 Q 1040 66.8 1100.0 66.5 Q 1160 66.2 1220.0 64.3 Q 1280 62.4 1340.0 59.3 Q 1400 56.2 1460.0 52.6 Q 1520 49.1 1580.0 45.8 Q 1640 42.6 1700.0 40.4 Q 1760 38.2 1820.0 37.6 Q 1880 37.0 1940.0 38.2 Q 2000 39.3 2060.0 41.9 Q 2120 44.4 2180.0 47.9 T 2240 51.3 L 2320 200 L -160 200 Z" fill="#F6FAFF"/><path class="ola ola--2" d="M -160 66.3 Q -40 62.9 20.0 62.5 Q 80 62.0 140.0 62.8 Q 200 63.6 260.0 65.6 Q 320 67.5 380.0 70.3 Q 440 73.1 500.0 76.2 Q 560 79.4 620.0 82.5 Q 680 85.5 740.0 88.0 Q 800 90.4 860.0 91.9 Q 920 93.4 980.0 93.6 Q 1040 93.9 1100.0 92.9 Q 1160 91.9 1220.0 89.8 Q 1280 87.6 1340.0 84.8 Q 1400 81.9 1460.0 78.7 Q 1520 75.5 1580.0 72.5 Q 1640 69.6 1700.0 67.2 Q 1760 64.9 1820.0 63.6 Q 1880 62.4 1940.0 62.3 Q 2000 62.3 2060.0 63.5 Q 2120 64.7 2180.0 67.0 T 2240 69.2 L 2320 200 L -160 200 Z" fill="#DDE6F8"/><path class="ola ola--3" d="M -160 95.2 Q -40 98.1 20.0 101.0 Q 80 103.8 140.0 107.2 Q 200 110.6 260.0 113.7 Q 320 116.7 380.0 118.5 Q 440 120.4 500.0 120.5 Q 560 120.7 620.0 119.1 Q 680 117.5 740.0 114.6 Q 800 111.7 860.0 108.2 Q 920 104.8 980.0 101.9 Q 1040 98.9 1100.0 97.2 Q 1160 95.4 1220.0 95.5 Q 1280 95.5 1340.0 97.2 Q 1400 98.9 1460.0 101.9 Q 1520 104.9 1580.0 108.3 Q 1640 111.7 1700.0 114.6 Q 1760 117.5 1820.0 119.1 Q 1880 120.7 1940.0 120.5 Q 2000 120.4 2060.0 118.5 Q 2120 116.6 2180.0 113.6 T 2240 110.5 L 2320 200 L -160 200 Z" fill="#C3CFEE"/><path class="ola ola--4" d="M -160 143.1 Q -40 138.8 20.0 137.4 Q 80 135.9 140.0 135.5 Q 200 135.0 260.0 135.6 Q 320 136.2 380.0 137.7 Q 440 139.3 500.0 141.5 Q 560 143.7 620.0 146.1 Q 680 148.5 740.0 150.7 Q 800 152.9 860.0 154.4 Q 920 155.9 980.0 156.4 Q 1040 157.0 1100.0 156.5 Q 1160 156.0 1220.0 154.5 Q 1280 153.0 1340.0 150.9 Q 1400 148.7 1460.0 146.3 Q 1520 143.9 1580.0 141.7 Q 1640 139.5 1700.0 137.9 Q 1760 136.3 1820.0 135.7 Q 1880 135.0 1940.0 135.4 Q 2000 135.9 2060.0 137.3 Q 2120 138.7 2180.0 140.8 T 2240 142.9 L 2320 200 L -160 200 Z" fill="#F7FAFF"/><path class="ola ola--5" d="M -160 165.0 Q -40 165.6 20.0 166.4 Q 80 167.3 140.0 168.5 Q 200 169.8 260.0 171.3 Q 320 172.9 380.0 174.5 Q 440 176.1 500.0 177.6 Q 560 179.0 620.0 180.2 Q 680 181.3 740.0 182.0 Q 800 182.7 860.0 182.8 Q 920 183.0 980.0 182.5 Q 1040 182.1 1100.0 181.1 Q 1160 180.2 1220.0 178.8 Q 1280 177.5 1340.0 175.9 Q 1400 174.3 1460.0 172.7 Q 1520 171.1 1580.0 169.7 Q 1640 168.3 1700.0 167.3 Q 1760 166.2 1820.0 165.7 Q 1880 165.1 1940.0 165.1 Q 2000 165.2 2060.0 165.7 Q 2120 166.3 2180.0 167.4 T 2240 168.5 L 2320 200 L -160 200 Z" fill="#FBF5EF"/></svg></div></div>
+<div class="franja franja--agua" aria-hidden="true"><div class="franja__escena"><img class="mar mar--coral" src="assets/img/mar/coral-d.webp" alt="" style="left:-1%;--w:87;--b:33%;--dur:8.1s;--del:-2.1s" loading="lazy"><img class="mar mar--tortuga" src="assets/img/mar/tortuga-der.webp" alt="" style="left:9%;--w:124;--b:34%;--dur:6.9s;--del:-0.5s" loading="lazy"><span class="mar mar--burbujas" style="left:17%;--w:0.5;--dur:11.5s;--del:-0s"><svg viewBox="0 0 40 90"><circle cx="14" cy="76" r="8"/><circle cx="27" cy="50" r="5.5"/><circle cx="16" cy="24" r="4"/><circle class="brillo" cx="11" cy="73" r="2.4"/></svg></span><img class="mar mar--pez mar--extra" src="assets/img/mar/pez-der.webp" alt="" style="left:23%;--w:72;--b:46%;--dur:15.5s;--del:-2.5s" loading="lazy"><img class="mar mar--coral" src="assets/img/mar/coral-b.webp" alt="" style="left:34%;--w:78;--b:33%;--dur:9.3s;--del:-1.3s" loading="lazy"><img class="mar mar--estrella" src="assets/img/mar/estrella-naranja.webp" alt="" style="left:46%;--w:102;--b:34%;--dur:8.6s;--del:-3.4s" loading="lazy"><img class="mar mar--estrella mar--extra" src="assets/img/mar/estrella-teal.webp" alt="" style="left:54%;--w:62;--b:34%;--dur:11s;--del:-1.7s" loading="lazy"><img class="mar mar--coral" src="assets/img/mar/coral-a.webp" alt="" style="left:62%;--w:90;--b:33%;--dur:7.1s;--del:-2.9s" loading="lazy"><span class="mar mar--burbujas" style="left:70%;--w:0.45;--dur:13.5s;--del:-6s"><svg viewBox="0 0 40 90"><circle cx="14" cy="76" r="8"/><circle cx="27" cy="50" r="5.5"/><circle cx="16" cy="24" r="4"/><circle class="brillo" cx="11" cy="73" r="2.4"/></svg></span><img class="mar mar--ballena" src="assets/img/mar/ballena-der.webp" alt="" style="left:74%;--w:248;--b:36%;--dur:11.4s;--del:-2s" loading="lazy"><img class="mar mar--coral" src="assets/img/mar/coral-c.webp" alt="" style="left:92%;--w:81;--b:33%;--dur:8.8s;--del:-0.4s" loading="lazy"><span class="mar mar--burbujas" style="left:66%;--w:.5;--dur:10.8s;--del:-1s"><svg viewBox="0 0 40 90"><circle cx="14" cy="76" r="8"/><circle cx="27" cy="50" r="5.5"/><circle cx="16" cy="24" r="4"/><circle class="brillo" cx="11" cy="73" r="2.4"/></svg></span><svg class="franja__olas" viewBox="0 0 2160 200" preserveAspectRatio="none" aria-hidden="true"><path class="ola ola--1" d="M -160 56.2 Q -40 49.1 20.0 45.8 Q 80 42.6 140.0 40.4 Q 200 38.2 260.0 37.6 Q 320 37.0 380.0 38.2 Q 440 39.3 500.0 41.9 Q 560 44.4 620.0 47.9 Q 680 51.3 740.0 54.9 Q 800 58.4 860.0 61.2 Q 920 64.0 980.0 65.4 Q 1040 66.8 1100.0 66.5 Q 1160 66.2 1220.0 64.3 Q 1280 62.4 1340.0 59.3 Q 1400 56.2 1460.0 52.6 Q 1520 49.1 1580.0 45.8 Q 1640 42.6 1700.0 40.4 Q 1760 38.2 1820.0 37.6 Q 1880 37.0 1940.0 38.2 Q 2000 39.3 2060.0 41.9 Q 2120 44.4 2180.0 47.9 T 2240 51.3 L 2320 200 L -160 200 Z" fill="#F6FAFF"/><path class="ola ola--2" d="M -160 66.3 Q -40 62.9 20.0 62.5 Q 80 62.0 140.0 62.8 Q 200 63.6 260.0 65.6 Q 320 67.5 380.0 70.3 Q 440 73.1 500.0 76.2 Q 560 79.4 620.0 82.5 Q 680 85.5 740.0 88.0 Q 800 90.4 860.0 91.9 Q 920 93.4 980.0 93.6 Q 1040 93.9 1100.0 92.9 Q 1160 91.9 1220.0 89.8 Q 1280 87.6 1340.0 84.8 Q 1400 81.9 1460.0 78.7 Q 1520 75.5 1580.0 72.5 Q 1640 69.6 1700.0 67.2 Q 1760 64.9 1820.0 63.6 Q 1880 62.4 1940.0 62.3 Q 2000 62.3 2060.0 63.5 Q 2120 64.7 2180.0 67.0 T 2240 69.2 L 2320 200 L -160 200 Z" fill="#DDE6F8"/><path class="ola ola--3" d="M -160 95.2 Q -40 98.1 20.0 101.0 Q 80 103.8 140.0 107.2 Q 200 110.6 260.0 113.7 Q 320 116.7 380.0 118.5 Q 440 120.4 500.0 120.5 Q 560 120.7 620.0 119.1 Q 680 117.5 740.0 114.6 Q 800 111.7 860.0 108.2 Q 920 104.8 980.0 101.9 Q 1040 98.9 1100.0 97.2 Q 1160 95.4 1220.0 95.5 Q 1280 95.5 1340.0 97.2 Q 1400 98.9 1460.0 101.9 Q 1520 104.9 1580.0 108.3 Q 1640 111.7 1700.0 114.6 Q 1760 117.5 1820.0 119.1 Q 1880 120.7 1940.0 120.5 Q 2000 120.4 2060.0 118.5 Q 2120 116.6 2180.0 113.6 T 2240 110.5 L 2320 200 L -160 200 Z" fill="#C3CFEE"/><path class="ola ola--4" d="M -160 143.1 Q -40 138.8 20.0 137.4 Q 80 135.9 140.0 135.5 Q 200 135.0 260.0 135.6 Q 320 136.2 380.0 137.7 Q 440 139.3 500.0 141.5 Q 560 143.7 620.0 146.1 Q 680 148.5 740.0 150.7 Q 800 152.9 860.0 154.4 Q 920 155.9 980.0 156.4 Q 1040 157.0 1100.0 156.5 Q 1160 156.0 1220.0 154.5 Q 1280 153.0 1340.0 150.9 Q 1400 148.7 1460.0 146.3 Q 1520 143.9 1580.0 141.7 Q 1640 139.5 1700.0 137.9 Q 1760 136.3 1820.0 135.7 Q 1880 135.0 1940.0 135.4 Q 2000 135.9 2060.0 137.3 Q 2120 138.7 2180.0 140.8 T 2240 142.9 L 2320 200 L -160 200 Z" fill="#F7FAFF"/><path class="ola ola--5" d="M -160 165.0 Q -40 165.6 20.0 166.4 Q 80 167.3 140.0 168.5 Q 200 169.8 260.0 171.3 Q 320 172.9 380.0 174.5 Q 440 176.1 500.0 177.6 Q 560 179.0 620.0 180.2 Q 680 181.3 740.0 182.0 Q 800 182.7 860.0 182.8 Q 920 183.0 980.0 182.5 Q 1040 182.1 1100.0 181.1 Q 1160 180.2 1220.0 178.8 Q 1280 177.5 1340.0 175.9 Q 1400 174.3 1460.0 172.7 Q 1520 171.1 1580.0 169.7 Q 1640 168.3 1700.0 167.3 Q 1760 166.2 1820.0 165.7 Q 1880 165.1 1940.0 165.1 Q 2000 165.2 2060.0 165.7 Q 2120 166.3 2180.0 167.4 T 2240 168.5 L 2320 200 L -160 200 Z" fill="#FBF5EF"/></svg></div></div>
 
 <!-- ===== Preguntas frecuentes ===== -->
 <section id="faq" class="seccion seccion--crema faq">
